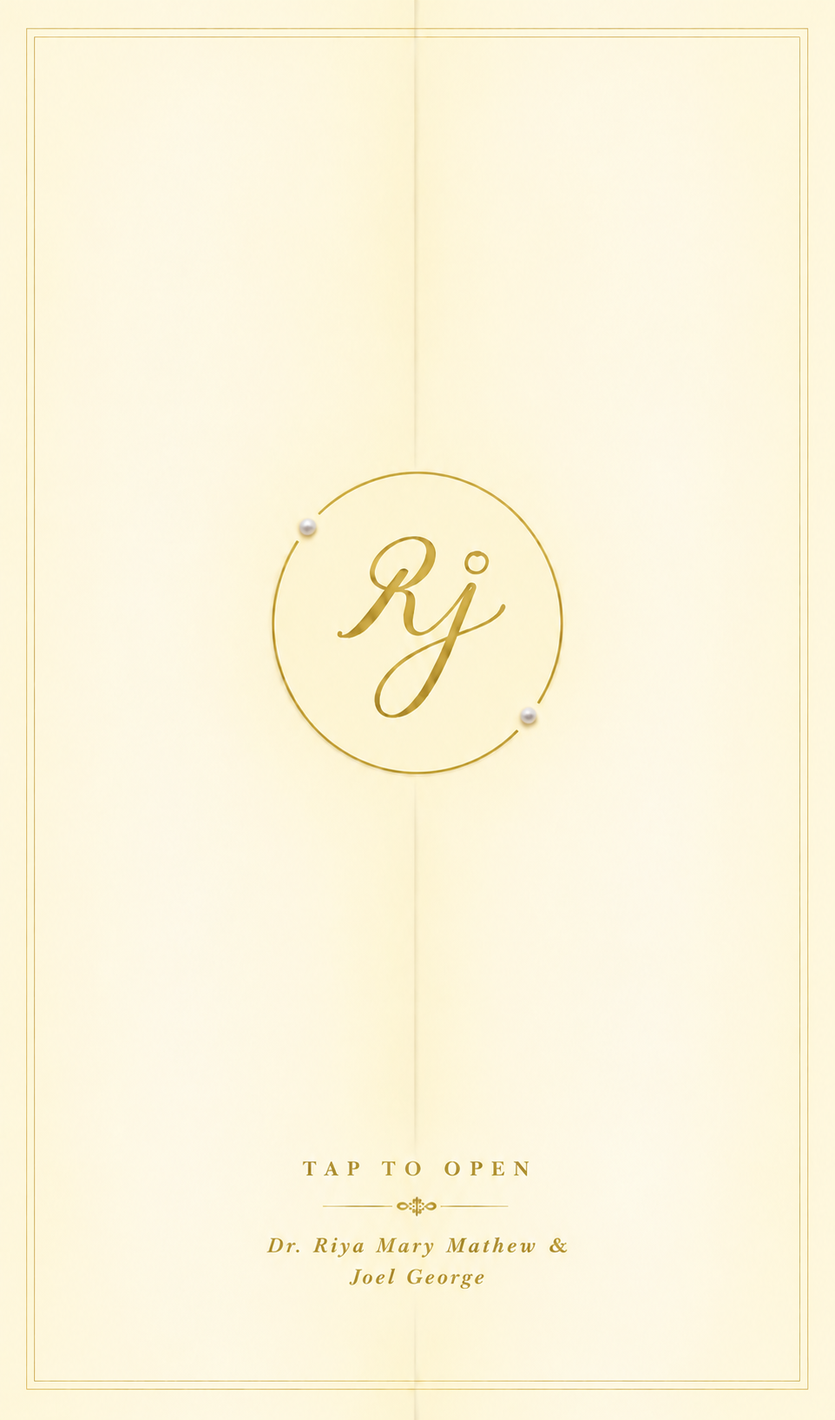
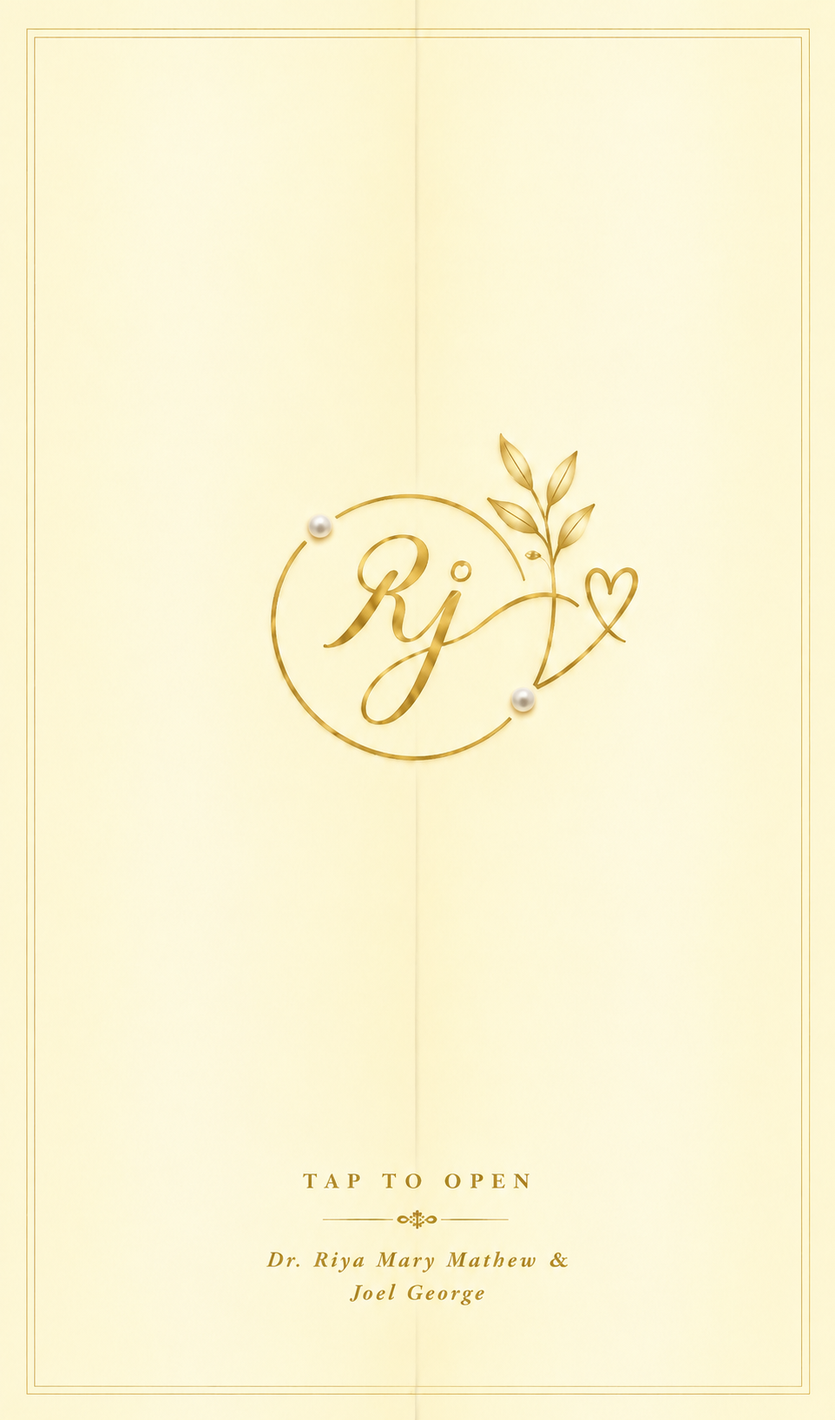
Update opening door animation with new gate.webp artwork, new scripture Ecclesiastes 4:9, and embroidered couple hands

diff --git a/index.html b/index.html
@@ -41,7 +41,7 @@
     href="https://fonts.googleapis.com/css2?family=Cormorant+Garamond:ital,wght@0,400;0,500;0,600;0,700;1,400;1,500&family=Great+Vibes&family=Pinyon+Script&family=Alex+Brush&family=Plus+Jakarta+Sans:wght@400;500;600&display=swap"
     rel="stylesheet" />
   <link rel="preload" as="image" href="assets/couple-embroidery.jpg?v=2" />
-  <link rel="stylesheet" href="styles.css?v=35" />
+  <link rel="stylesheet" href="styles.css?v=36" />
 </head>
 
 <body class="doors-locked">
@@ -70,24 +70,28 @@
             <div class="hero-heart-ornament" aria-hidden="true">
               <svg class="hero-heart-svg" viewBox="0 0 64 20" fill="none" xmlns="http://www.w3.org/2000/svg">
                 <!-- Left flourish with sage leaf -->
-                <path d="M 6 10 C 14 10, 20 8, 25 10" stroke="#b4964c" stroke-width="1.2" stroke-linecap="round"/>
-                <path d="M 12 10 C 16 6, 20 6, 22 9" stroke="#7a9170" stroke-width="1.1" stroke-linecap="round" fill="none"/>
-                <circle cx="21" cy="7.5" r="1.3" fill="#7a9170"/>
+                <path d="M 6 10 C 14 10, 20 8, 25 10" stroke="#b4964c" stroke-width="1.2" stroke-linecap="round" />
+                <path d="M 12 10 C 16 6, 20 6, 22 9" stroke="#7a9170" stroke-width="1.1" stroke-linecap="round"
+                  fill="none" />
+                <circle cx="21" cy="7.5" r="1.3" fill="#7a9170" />
 
                 <!-- Delicate center heart with gold gradient & pearl accent -->
-                <path d="M 32 16.5 C 32 16.5, 25 12, 25 7.5 C 25 4.5, 27.5 2.5, 30.2 3.2 C 31.2 3.5, 31.8 4.2, 32 4.8 C 32.2 4.2, 32.8 3.5, 33.8 3.2 C 36.5 2.5, 39 4.5, 39 7.5 C 39 12, 32 16.5, 32 16.5 Z" fill="url(#heroHeartGold)" stroke="#b4964c" stroke-width="0.8"/>
-                <circle cx="32" cy="7" r="1.2" fill="#fffdf5" stroke="#c8a856" stroke-width="0.5"/>
+                <path
+                  d="M 32 16.5 C 32 16.5, 25 12, 25 7.5 C 25 4.5, 27.5 2.5, 30.2 3.2 C 31.2 3.5, 31.8 4.2, 32 4.8 C 32.2 4.2, 32.8 3.5, 33.8 3.2 C 36.5 2.5, 39 4.5, 39 7.5 C 39 12, 32 16.5, 32 16.5 Z"
+                  fill="url(#heroHeartGold)" stroke="#b4964c" stroke-width="0.8" />
+                <circle cx="32" cy="7" r="1.2" fill="#fffdf5" stroke="#c8a856" stroke-width="0.5" />
 
                 <!-- Right flourish with sage leaf -->
-                <path d="M 58 10 C 50 10, 44 8, 39 10" stroke="#b4964c" stroke-width="1.2" stroke-linecap="round"/>
-                <path d="M 52 10 C 48 6, 44 6, 42 9" stroke="#7a9170" stroke-width="1.1" stroke-linecap="round" fill="none"/>
-                <circle cx="43" cy="7.5" r="1.3" fill="#7a9170"/>
+                <path d="M 58 10 C 50 10, 44 8, 39 10" stroke="#b4964c" stroke-width="1.2" stroke-linecap="round" />
+                <path d="M 52 10 C 48 6, 44 6, 42 9" stroke="#7a9170" stroke-width="1.1" stroke-linecap="round"
+                  fill="none" />
+                <circle cx="43" cy="7.5" r="1.3" fill="#7a9170" />
 
                 <defs>
                   <linearGradient id="heroHeartGold" x1="25" y1="3" x2="39" y2="17" gradientUnits="userSpaceOnUse">
-                    <stop stop-color="#EED58E"/>
-                    <stop offset="0.5" stop-color="#C5A454"/>
-                    <stop offset="1" stop-color="#9E7D35"/>
+                    <stop stop-color="#EED58E" />
+                    <stop offset="0.5" stop-color="#C5A454" />
+                    <stop offset="1" stop-color="#9E7D35" />
                   </linearGradient>
                 </defs>
               </svg>
@@ -126,8 +130,9 @@
       <!-- SECTION 2: SCRIPTURE & BIBLE (Reference 3.jpg) -->
       <section class="card-section scripture-section" id="scripture">
         <div class="scripture-frame-wrap">
-          <img src="assets/scripture-frame.jpg?v=2"
-            alt="Hand-embroidered Holy Bible with pale yellow and sage green floral frame with scripture: Let all that you do be done in love — 1 Corinthians 16:14" class="scripture-frame-img" />
+          <img src="assets/scripture-frame.jpg?v=3"
+            alt="Two are better than one, because they have a good reward for their toil .— Ecclesiastes 4:9"
+            class="scripture-frame-img" />
         </div>
       </section>
 
@@ -138,94 +143,120 @@
           <!-- Butterfly 1: Soft Pale Yellow & Gold Embroidered Butterfly (Top Left) -->
           <div class="cute-butterfly cb-1">
             <svg class="cute-bf-svg" viewBox="0 0 54 44" fill="none" xmlns="http://www.w3.org/2000/svg">
-              <path class="bf-stitch-wing" d="M 27 22 C 23 10, 8 2, 3 8 C -3 15, 2 27, 27 24 Z" fill="#FFFBE6" stroke="#C8A856" stroke-width="1.2" stroke-dasharray="2 1.5" stroke-linecap="round"/>
-              <path class="bf-stitch-wing" d="M 27 24 C 19 25, 7 28, 7 36 C 7 42, 17 42, 27 27 Z" fill="#F8EDBF" stroke="#C8A856" stroke-width="1.1" stroke-dasharray="2 1.5" stroke-linecap="round"/>
-              <circle cx="12" cy="16" r="2.5" fill="#E8CD78" opacity="0.8"/>
-              <path d="M 10 26 C 14 24, 20 24, 24 25" stroke="#C8A856" stroke-width="0.9" stroke-dasharray="1.5 1.5" stroke-linecap="round"/>
+              <path class="bf-stitch-wing" d="M 27 22 C 23 10, 8 2, 3 8 C -3 15, 2 27, 27 24 Z" fill="#FFFBE6"
+                stroke="#C8A856" stroke-width="1.2" stroke-dasharray="2 1.5" stroke-linecap="round" />
+              <path class="bf-stitch-wing" d="M 27 24 C 19 25, 7 28, 7 36 C 7 42, 17 42, 27 27 Z" fill="#F8EDBF"
+                stroke="#C8A856" stroke-width="1.1" stroke-dasharray="2 1.5" stroke-linecap="round" />
+              <circle cx="12" cy="16" r="2.5" fill="#E8CD78" opacity="0.8" />
+              <path d="M 10 26 C 14 24, 20 24, 24 25" stroke="#C8A856" stroke-width="0.9" stroke-dasharray="1.5 1.5"
+                stroke-linecap="round" />
 
-              <path class="bf-stitch-wing" d="M 27 22 C 31 10, 46 2, 51 8 C 57 15, 52 27, 27 24 Z" fill="#FFFBE6" stroke="#C8A856" stroke-width="1.2" stroke-dasharray="2 1.5" stroke-linecap="round"/>
-              <path class="bf-stitch-wing" d="M 27 24 C 35 25, 47 28, 47 36 C 47 42, 37 42, 27 27 Z" fill="#F8EDBF" stroke="#C8A856" stroke-width="1.1" stroke-dasharray="2 1.5" stroke-linecap="round"/>
-              <circle cx="42" cy="16" r="2.5" fill="#E8CD78" opacity="0.8"/>
-              <path d="M 44 26 C 40 24, 34 24, 30 25" stroke="#C8A856" stroke-width="0.9" stroke-dasharray="1.5 1.5" stroke-linecap="round"/>
+              <path class="bf-stitch-wing" d="M 27 22 C 31 10, 46 2, 51 8 C 57 15, 52 27, 27 24 Z" fill="#FFFBE6"
+                stroke="#C8A856" stroke-width="1.2" stroke-dasharray="2 1.5" stroke-linecap="round" />
+              <path class="bf-stitch-wing" d="M 27 24 C 35 25, 47 28, 47 36 C 47 42, 37 42, 27 27 Z" fill="#F8EDBF"
+                stroke="#C8A856" stroke-width="1.1" stroke-dasharray="2 1.5" stroke-linecap="round" />
+              <circle cx="42" cy="16" r="2.5" fill="#E8CD78" opacity="0.8" />
+              <path d="M 44 26 C 40 24, 34 24, 30 25" stroke="#C8A856" stroke-width="0.9" stroke-dasharray="1.5 1.5"
+                stroke-linecap="round" />
 
               <!-- Stitched Antennae -->
-              <path d="M 25 18 C 23 13, 19 11, 17 12 M 29 18 C 31 13, 35 11, 37 12" stroke="#9E844E" stroke-width="1" stroke-linecap="round"/>
-              <circle cx="17" cy="12" r="1.1" fill="#9E844E"/>
-              <circle cx="37" cy="12" r="1.1" fill="#9E844E"/>
+              <path d="M 25 18 C 23 13, 19 11, 17 12 M 29 18 C 31 13, 35 11, 37 12" stroke="#9E844E" stroke-width="1"
+                stroke-linecap="round" />
+              <circle cx="17" cy="12" r="1.1" fill="#9E844E" />
+              <circle cx="37" cy="12" r="1.1" fill="#9E844E" />
 
               <!-- Petite Embroidered Body -->
-              <ellipse cx="27" cy="23" rx="2.2" ry="6.5" fill="#9E844E"/>
-              <circle cx="27" cy="17.5" r="1.8" fill="#9E844E"/>
+              <ellipse cx="27" cy="23" rx="2.2" ry="6.5" fill="#9E844E" />
+              <circle cx="27" cy="17.5" r="1.8" fill="#9E844E" />
             </svg>
           </div>
 
           <!-- Butterfly 2: Soft Sage & Cream Embroidered Butterfly (Top Right) -->
           <div class="cute-butterfly cb-2">
             <svg class="cute-bf-svg" viewBox="0 0 54 44" fill="none" xmlns="http://www.w3.org/2000/svg">
-              <path class="bf-stitch-wing" d="M 27 22 C 23 10, 8 2, 3 8 C -3 15, 2 27, 27 24 Z" fill="#F2F7ED" stroke="#7E9A74" stroke-width="1.2" stroke-dasharray="2 1.5" stroke-linecap="round"/>
-              <path class="bf-stitch-wing" d="M 27 24 C 19 25, 7 28, 7 36 C 7 42, 17 42, 27 27 Z" fill="#DAE6D1" stroke="#7E9A74" stroke-width="1.1" stroke-dasharray="2 1.5" stroke-linecap="round"/>
-              <circle cx="12" cy="16" r="2.5" fill="#BFD2B7" opacity="0.8"/>
-              <path d="M 10 26 C 14 24, 20 24, 24 25" stroke="#7E9A74" stroke-width="0.9" stroke-dasharray="1.5 1.5" stroke-linecap="round"/>
+              <path class="bf-stitch-wing" d="M 27 22 C 23 10, 8 2, 3 8 C -3 15, 2 27, 27 24 Z" fill="#F2F7ED"
+                stroke="#7E9A74" stroke-width="1.2" stroke-dasharray="2 1.5" stroke-linecap="round" />
+              <path class="bf-stitch-wing" d="M 27 24 C 19 25, 7 28, 7 36 C 7 42, 17 42, 27 27 Z" fill="#DAE6D1"
+                stroke="#7E9A74" stroke-width="1.1" stroke-dasharray="2 1.5" stroke-linecap="round" />
+              <circle cx="12" cy="16" r="2.5" fill="#BFD2B7" opacity="0.8" />
+              <path d="M 10 26 C 14 24, 20 24, 24 25" stroke="#7E9A74" stroke-width="0.9" stroke-dasharray="1.5 1.5"
+                stroke-linecap="round" />
 
-              <path class="bf-stitch-wing" d="M 27 22 C 31 10, 46 2, 51 8 C 57 15, 52 27, 27 24 Z" fill="#F2F7ED" stroke="#7E9A74" stroke-width="1.2" stroke-dasharray="2 1.5" stroke-linecap="round"/>
-              <path class="bf-stitch-wing" d="M 27 24 C 35 25, 47 28, 47 36 C 47 42, 37 42, 27 27 Z" fill="#DAE6D1" stroke="#7E9A74" stroke-width="1.1" stroke-dasharray="2 1.5" stroke-linecap="round"/>
-              <circle cx="42" cy="16" r="2.5" fill="#BFD2B7" opacity="0.8"/>
-              <path d="M 44 26 C 40 24, 34 24, 30 25" stroke="#7E9A74" stroke-width="0.9" stroke-dasharray="1.5 1.5" stroke-linecap="round"/>
+              <path class="bf-stitch-wing" d="M 27 22 C 31 10, 46 2, 51 8 C 57 15, 52 27, 27 24 Z" fill="#F2F7ED"
+                stroke="#7E9A74" stroke-width="1.2" stroke-dasharray="2 1.5" stroke-linecap="round" />
+              <path class="bf-stitch-wing" d="M 27 24 C 35 25, 47 28, 47 36 C 47 42, 37 42, 27 27 Z" fill="#DAE6D1"
+                stroke="#7E9A74" stroke-width="1.1" stroke-dasharray="2 1.5" stroke-linecap="round" />
+              <circle cx="42" cy="16" r="2.5" fill="#BFD2B7" opacity="0.8" />
+              <path d="M 44 26 C 40 24, 34 24, 30 25" stroke="#7E9A74" stroke-width="0.9" stroke-dasharray="1.5 1.5"
+                stroke-linecap="round" />
 
               <!-- Stitched Antennae -->
-              <path d="M 25 18 C 23 13, 19 11, 17 12 M 29 18 C 31 13, 35 11, 37 12" stroke="#68845E" stroke-width="1" stroke-linecap="round"/>
-              <circle cx="17" cy="12" r="1.1" fill="#68845E"/>
-              <circle cx="37" cy="12" r="1.1" fill="#68845E"/>
+              <path d="M 25 18 C 23 13, 19 11, 17 12 M 29 18 C 31 13, 35 11, 37 12" stroke="#68845E" stroke-width="1"
+                stroke-linecap="round" />
+              <circle cx="17" cy="12" r="1.1" fill="#68845E" />
+              <circle cx="37" cy="12" r="1.1" fill="#68845E" />
 
               <!-- Petite Embroidered Body -->
-              <ellipse cx="27" cy="23" rx="2.2" ry="6.5" fill="#68845E"/>
-              <circle cx="27" cy="17.5" r="1.8" fill="#68845E"/>
+              <ellipse cx="27" cy="23" rx="2.2" ry="6.5" fill="#68845E" />
+              <circle cx="27" cy="17.5" r="1.8" fill="#68845E" />
             </svg>
           </div>
 
           <!-- Butterfly 3: Warm Ivory & Buttercream Stitched Butterfly (Bottom Left) -->
           <div class="cute-butterfly cb-3">
             <svg class="cute-bf-svg" viewBox="0 0 54 44" fill="none" xmlns="http://www.w3.org/2000/svg">
-              <path class="bf-stitch-wing" d="M 27 22 C 23 10, 8 2, 3 8 C -3 15, 2 27, 27 24 Z" fill="#FFFDF5" stroke="#C2A45A" stroke-width="1.2" stroke-dasharray="2 1.5" stroke-linecap="round"/>
-              <path class="bf-stitch-wing" d="M 27 24 C 19 25, 7 28, 7 36 C 7 42, 17 42, 27 27 Z" fill="#F8EFCF" stroke="#C2A45A" stroke-width="1.1" stroke-dasharray="2 1.5" stroke-linecap="round"/>
-              <circle cx="12" cy="16" r="2.5" fill="#E8D490" opacity="0.8"/>
-              <path d="M 10 26 C 14 24, 20 24, 24 25" stroke="#C2A45A" stroke-width="0.9" stroke-dasharray="1.5 1.5" stroke-linecap="round"/>
+              <path class="bf-stitch-wing" d="M 27 22 C 23 10, 8 2, 3 8 C -3 15, 2 27, 27 24 Z" fill="#FFFDF5"
+                stroke="#C2A45A" stroke-width="1.2" stroke-dasharray="2 1.5" stroke-linecap="round" />
+              <path class="bf-stitch-wing" d="M 27 24 C 19 25, 7 28, 7 36 C 7 42, 17 42, 27 27 Z" fill="#F8EFCF"
+                stroke="#C2A45A" stroke-width="1.1" stroke-dasharray="2 1.5" stroke-linecap="round" />
+              <circle cx="12" cy="16" r="2.5" fill="#E8D490" opacity="0.8" />
+              <path d="M 10 26 C 14 24, 20 24, 24 25" stroke="#C2A45A" stroke-width="0.9" stroke-dasharray="1.5 1.5"
+                stroke-linecap="round" />
 
-              <path class="bf-stitch-wing" d="M 27 22 C 31 10, 46 2, 51 8 C 57 15, 52 27, 27 24 Z" fill="#FFFDF5" stroke="#C2A45A" stroke-width="1.2" stroke-dasharray="2 1.5" stroke-linecap="round"/>
-              <path class="bf-stitch-wing" d="M 27 24 C 35 25, 47 28, 47 36 C 47 42, 37 42, 27 27 Z" fill="#F8EFCF" stroke="#C2A45A" stroke-width="1.1" stroke-dasharray="2 1.5" stroke-linecap="round"/>
-              <circle cx="42" cy="16" r="2.5" fill="#E8D490" opacity="0.8"/>
-              <path d="M 44 26 C 40 24, 34 24, 30 25" stroke="#C2A45A" stroke-width="0.9" stroke-dasharray="1.5 1.5" stroke-linecap="round"/>
+              <path class="bf-stitch-wing" d="M 27 22 C 31 10, 46 2, 51 8 C 57 15, 52 27, 27 24 Z" fill="#FFFDF5"
+                stroke="#C2A45A" stroke-width="1.2" stroke-dasharray="2 1.5" stroke-linecap="round" />
+              <path class="bf-stitch-wing" d="M 27 24 C 35 25, 47 28, 47 36 C 47 42, 37 42, 27 27 Z" fill="#F8EFCF"
+                stroke="#C2A45A" stroke-width="1.1" stroke-dasharray="2 1.5" stroke-linecap="round" />
+              <circle cx="42" cy="16" r="2.5" fill="#E8D490" opacity="0.8" />
+              <path d="M 44 26 C 40 24, 34 24, 30 25" stroke="#C2A45A" stroke-width="0.9" stroke-dasharray="1.5 1.5"
+                stroke-linecap="round" />
 
               <!-- Stitched Antennae -->
-              <path d="M 25 18 C 23 13, 19 11, 17 12 M 29 18 C 31 13, 35 11, 37 12" stroke="#9A824A" stroke-width="1" stroke-linecap="round"/>
-              <circle cx="17" cy="12" r="1.1" fill="#9A824A"/>
-              <circle cx="37" cy="12" r="1.1" fill="#9A824A"/>
+              <path d="M 25 18 C 23 13, 19 11, 17 12 M 29 18 C 31 13, 35 11, 37 12" stroke="#9A824A" stroke-width="1"
+                stroke-linecap="round" />
+              <circle cx="17" cy="12" r="1.1" fill="#9A824A" />
+              <circle cx="37" cy="12" r="1.1" fill="#9A824A" />
 
               <!-- Petite Embroidered Body -->
-              <ellipse cx="27" cy="23" rx="2.2" ry="6.5" fill="#9A824A"/>
-              <circle cx="27" cy="17.5" r="1.8" fill="#9A824A"/>
+              <ellipse cx="27" cy="23" rx="2.2" ry="6.5" fill="#9A824A" />
+              <circle cx="27" cy="17.5" r="1.8" fill="#9A824A" />
             </svg>
           </div>
 
           <!-- Butterfly 4: Petite Pale Yellow Fluttering Butterfly (Bottom Right) -->
           <div class="cute-butterfly cb-4">
             <svg class="cute-bf-svg" viewBox="0 0 54 44" fill="none" xmlns="http://www.w3.org/2000/svg">
-              <path class="bf-stitch-wing" d="M 27 22 C 23 10, 8 2, 3 8 C -3 15, 2 27, 27 24 Z" fill="#FFF8DC" stroke="#C8A856" stroke-width="1.2" stroke-dasharray="2 1.5" stroke-linecap="round"/>
-              <path class="bf-stitch-wing" d="M 27 24 C 19 25, 7 28, 7 36 C 7 42, 17 42, 27 27 Z" fill="#F4E4A6" stroke="#C8A856" stroke-width="1.1" stroke-dasharray="2 1.5" stroke-linecap="round"/>
-              <circle cx="12" cy="16" r="2.5" fill="#E4CA72" opacity="0.8"/>
+              <path class="bf-stitch-wing" d="M 27 22 C 23 10, 8 2, 3 8 C -3 15, 2 27, 27 24 Z" fill="#FFF8DC"
+                stroke="#C8A856" stroke-width="1.2" stroke-dasharray="2 1.5" stroke-linecap="round" />
+              <path class="bf-stitch-wing" d="M 27 24 C 19 25, 7 28, 7 36 C 7 42, 17 42, 27 27 Z" fill="#F4E4A6"
+                stroke="#C8A856" stroke-width="1.1" stroke-dasharray="2 1.5" stroke-linecap="round" />
+              <circle cx="12" cy="16" r="2.5" fill="#E4CA72" opacity="0.8" />
 
-              <path class="bf-stitch-wing" d="M 27 22 C 31 10, 46 2, 51 8 C 57 15, 52 27, 27 24 Z" fill="#FFF8DC" stroke="#C8A856" stroke-width="1.2" stroke-dasharray="2 1.5" stroke-linecap="round"/>
-              <path class="bf-stitch-wing" d="M 27 24 C 35 25, 47 28, 47 36 C 47 42, 37 42, 27 27 Z" fill="#F4E4A6" stroke="#C8A856" stroke-width="1.1" stroke-dasharray="2 1.5" stroke-linecap="round"/>
-              <circle cx="42" cy="16" r="2.5" fill="#E4CA72" opacity="0.8"/>
+              <path class="bf-stitch-wing" d="M 27 22 C 31 10, 46 2, 51 8 C 57 15, 52 27, 27 24 Z" fill="#FFF8DC"
+                stroke="#C8A856" stroke-width="1.2" stroke-dasharray="2 1.5" stroke-linecap="round" />
+              <path class="bf-stitch-wing" d="M 27 24 C 35 25, 47 28, 47 36 C 47 42, 37 42, 27 27 Z" fill="#F4E4A6"
+                stroke="#C8A856" stroke-width="1.1" stroke-dasharray="2 1.5" stroke-linecap="round" />
+              <circle cx="42" cy="16" r="2.5" fill="#E4CA72" opacity="0.8" />
 
               <!-- Stitched Antennae -->
-              <path d="M 25 18 C 23 13, 19 11, 17 12 M 29 18 C 31 13, 35 11, 37 12" stroke="#9E844E" stroke-width="1" stroke-linecap="round"/>
-              <circle cx="17" cy="12" r="1.1" fill="#9E844E"/>
-              <circle cx="37" cy="12" r="1.1" fill="#9E844E"/>
+              <path d="M 25 18 C 23 13, 19 11, 17 12 M 29 18 C 31 13, 35 11, 37 12" stroke="#9E844E" stroke-width="1"
+                stroke-linecap="round" />
+              <circle cx="17" cy="12" r="1.1" fill="#9E844E" />
+              <circle cx="37" cy="12" r="1.1" fill="#9E844E" />
 
               <!-- Petite Embroidered Body -->
-              <ellipse cx="27" cy="23" rx="2.2" ry="6.5" fill="#9E844E"/>
-              <circle cx="27" cy="17.5" r="1.8" fill="#9E844E"/>
+              <ellipse cx="27" cy="23" rx="2.2" ry="6.5" fill="#9E844E" />
+              <circle cx="27" cy="17.5" r="1.8" fill="#9E844E" />
             </svg>
           </div>
         </div>
@@ -316,8 +347,8 @@
               <h3 class="venue-name">K G Convention Centre</h3>
               <p class="venue-place">Punalur</p>
               <p class="venue-subdate">Sunday, January 3, 2027 · 12:30 PM</p>
-              <a href="https://www.google.com/maps/search/?api=1&query=KG+Convention+Centre+Punalur"
-                target="_blank" rel="noopener noreferrer" class="directions-link">
+              <a href="https://www.google.com/maps/search/?api=1&query=KG+Convention+Centre+Punalur" target="_blank"
+                rel="noopener noreferrer" class="directions-link">
                 <svg width="14" height="14" viewBox="0 0 24 24" fill="none" stroke="currentColor" stroke-width="1.8"
                   aria-hidden="true">
                   <path d="M12 21s-7-6.2-7-11.5a7 7 0 1 1 14 0C19 14.8 12 21 12 21z" />
@@ -352,76 +383,94 @@
             </defs>
 
             <!-- Gracefully Draped Festoon Fairy Wire (Romantic Curved Swag) -->
-            <path d="M 15 25 C 130 58, 200 68, 260 68 C 320 68, 390 58, 505 25" stroke="#44392C" stroke-width="1.35" stroke-linecap="round" />
+            <path d="M 15 25 C 130 58, 200 68, 260 68 C 320 68, 390 58, 505 25" stroke="#44392C" stroke-width="1.35"
+              stroke-linecap="round" />
 
             <!-- Decorative Tiny End Loops -->
             <circle cx="15" cy="25" r="2" fill="#D9BF71" stroke="#44392C" stroke-width="0.8" />
             <circle cx="505" cy="25" r="2" fill="#D9BF71" stroke="#44392C" stroke-width="0.8" />
 
             <!-- Twinkling Golden Fairy Sparkles -->
-            <path d="M 260 13 L 261.2 16.5 L 265 17.5 L 261.2 18.5 L 260 22 L 258.8 18.5 L 255 17.5 L 258.8 16.5 Z" fill="#E8C86A" opacity="0.9" />
-            <path d="M 105 28 L 105.8 30.5 L 108.5 31.2 L 105.8 32 L 105 34.5 L 104.2 32 L 101.5 31.2 L 104.2 30.5 Z" fill="#E8C86A" opacity="0.75" />
-            <path d="M 415 28 L 415.8 30.5 L 418.5 31.2 L 415.8 32 L 415 34.5 L 414.2 32 L 411.5 31.2 L 414.2 30.5 Z" fill="#E8C86A" opacity="0.75" />
+            <path d="M 260 13 L 261.2 16.5 L 265 17.5 L 261.2 18.5 L 260 22 L 258.8 18.5 L 255 17.5 L 258.8 16.5 Z"
+              fill="#E8C86A" opacity="0.9" />
+            <path d="M 105 28 L 105.8 30.5 L 108.5 31.2 L 105.8 32 L 105 34.5 L 104.2 32 L 101.5 31.2 L 104.2 30.5 Z"
+              fill="#E8C86A" opacity="0.75" />
+            <path d="M 415 28 L 415.8 30.5 L 418.5 31.2 L 415.8 32 L 415 34.5 L 414.2 32 L 411.5 31.2 L 414.2 30.5 Z"
+              fill="#E8C86A" opacity="0.75" />
 
             <!-- Bulb 1 (Left High) -->
             <g class="fairy-bulb fb-node-1">
               <rect x="67" y="42.5" width="6" height="3" rx="0.8" fill="#D9BF71" stroke="#44392C" stroke-width="0.8" />
-              <circle cx="70" cy="53.5" r="7.5" fill="url(#bulbWarmGlow)" stroke="#7D652B" stroke-width="0.9" filter="url(#bulbSoftGlow)" />
+              <circle cx="70" cy="53.5" r="7.5" fill="url(#bulbWarmGlow)" stroke="#7D652B" stroke-width="0.9"
+                filter="url(#bulbSoftGlow)" />
               <circle cx="67.8" cy="51.3" r="1.8" fill="#FFFFFF" opacity="0.75" />
             </g>
 
             <!-- Bulb 2 (Left Mid) -->
             <g class="fairy-bulb fb-node-2">
               <rect x="142" y="57" width="6" height="3" rx="0.8" fill="#D9BF71" stroke="#44392C" stroke-width="0.8" />
-              <circle cx="145" cy="68" r="7.5" fill="url(#bulbWarmGlow)" stroke="#7D652B" stroke-width="0.9" filter="url(#bulbSoftGlow)" />
+              <circle cx="145" cy="68" r="7.5" fill="url(#bulbWarmGlow)" stroke="#7D652B" stroke-width="0.9"
+                filter="url(#bulbSoftGlow)" />
               <circle cx="142.8" cy="65.8" r="1.8" fill="#FFFFFF" opacity="0.75" />
             </g>
 
             <!-- Bulb 3 (Left Near Birds) -->
             <g class="fairy-bulb fb-node-3">
               <rect x="207" y="65" width="6" height="3" rx="0.8" fill="#D9BF71" stroke="#44392C" stroke-width="0.8" />
-              <circle cx="210" cy="76" r="7.5" fill="url(#bulbWarmGlow)" stroke="#7D652B" stroke-width="0.9" filter="url(#bulbSoftGlow)" />
+              <circle cx="210" cy="76" r="7.5" fill="url(#bulbWarmGlow)" stroke="#7D652B" stroke-width="0.9"
+                filter="url(#bulbSoftGlow)" />
               <circle cx="207.8" cy="73.8" r="1.8" fill="#FFFFFF" opacity="0.75" />
             </g>
 
             <!-- Two Cute Lovebirds Snuggled in the Center Dip of the Drape -->
             <g class="lovebirds-couple">
               <!-- Left Bird -->
-              <path d="M 256 40 C 250 39, 244 43, 243 51 C 242 58, 243 64, 244 71 L 247 71 L 249 65 C 252 65, 257 61, 257 53 C 257 45, 257 40, 256 40 Z" fill="#FFFDF7" stroke="#3E3426" stroke-width="1.25" stroke-linejoin="round" />
+              <path
+                d="M 256 40 C 250 39, 244 43, 243 51 C 242 58, 243 64, 244 71 L 247 71 L 249 65 C 252 65, 257 61, 257 53 C 257 45, 257 40, 256 40 Z"
+                fill="#FFFDF7" stroke="#3E3426" stroke-width="1.25" stroke-linejoin="round" />
               <circle cx="253" cy="45" r="1.3" fill="#2B241A" />
-              <path d="M 257 47 L 260 48 L 257 49.5 Z" fill="#D89B48" stroke="#3E3426" stroke-width="0.8" stroke-linejoin="round" />
+              <path d="M 257 47 L 260 48 L 257 49.5 Z" fill="#D89B48" stroke="#3E3426" stroke-width="0.8"
+                stroke-linejoin="round" />
               <path d="M 247 51 C 246 54, 246 58, 248 61" stroke="#5C4F3D" stroke-width="1" stroke-linecap="round" />
               <path d="M 250 52 C 249 55, 250 59, 252 61" stroke="#5C4F3D" stroke-width="1" stroke-linecap="round" />
-              <path d="M 246 67 L 246 70 M 250 67 L 250 70" stroke="#3E3426" stroke-width="1.1" stroke-linecap="round" />
+              <path d="M 246 67 L 246 70 M 250 67 L 250 70" stroke="#3E3426" stroke-width="1.1"
+                stroke-linecap="round" />
 
               <!-- Right Bird (Snuggled & Leaning into Left Bird) -->
-              <path d="M 259 44 C 260 37, 267 36, 270 41 C 273 46, 273 54, 271 62 C 270 67, 268 72, 267 74 L 264 74 L 263 64 C 261 64, 259 59, 259 51 Z" fill="#FFFDF7" stroke="#3E3426" stroke-width="1.25" stroke-linejoin="round" />
+              <path
+                d="M 259 44 C 260 37, 267 36, 270 41 C 273 46, 273 54, 271 62 C 270 67, 268 72, 267 74 L 264 74 L 263 64 C 261 64, 259 59, 259 51 Z"
+                fill="#FFFDF7" stroke="#3E3426" stroke-width="1.25" stroke-linejoin="round" />
               <circle cx="263" cy="43" r="1.2" fill="#2B241A" />
               <circle cx="267" cy="43" r="1.2" fill="#2B241A" />
-              <path d="M 264.5 45.5 L 266 45.5 L 265.2 47 Z" fill="#D89B48" stroke="#3E3426" stroke-width="0.8" stroke-linejoin="round" />
+              <path d="M 264.5 45.5 L 266 45.5 L 265.2 47 Z" fill="#D89B48" stroke="#3E3426" stroke-width="0.8"
+                stroke-linejoin="round" />
               <circle cx="264" cy="53" r="1" fill="#7A6B54" />
               <circle cx="267" cy="55" r="1" fill="#7A6B54" />
-              <path d="M 262 67 L 262 70 M 266 67 L 266 70" stroke="#3E3426" stroke-width="1.1" stroke-linecap="round" />
+              <path d="M 262 67 L 262 70 M 266 67 L 266 70" stroke="#3E3426" stroke-width="1.1"
+                stroke-linecap="round" />
             </g>
 
             <!-- Bulb 4 (Right Near Birds) -->
             <g class="fairy-bulb fb-node-4">
               <rect x="307" y="65" width="6" height="3" rx="0.8" fill="#D9BF71" stroke="#44392C" stroke-width="0.8" />
-              <circle cx="310" cy="76" r="7.5" fill="url(#bulbWarmGlow)" stroke="#7D652B" stroke-width="0.9" filter="url(#bulbSoftGlow)" />
+              <circle cx="310" cy="76" r="7.5" fill="url(#bulbWarmGlow)" stroke="#7D652B" stroke-width="0.9"
+                filter="url(#bulbSoftGlow)" />
               <circle cx="307.8" cy="73.8" r="1.8" fill="#FFFFFF" opacity="0.75" />
             </g>
 
             <!-- Bulb 5 (Right Mid) -->
             <g class="fairy-bulb fb-node-5">
               <rect x="372" y="57" width="6" height="3" rx="0.8" fill="#D9BF71" stroke="#44392C" stroke-width="0.8" />
-              <circle cx="375" cy="68" r="7.5" fill="url(#bulbWarmGlow)" stroke="#7D652B" stroke-width="0.9" filter="url(#bulbSoftGlow)" />
+              <circle cx="375" cy="68" r="7.5" fill="url(#bulbWarmGlow)" stroke="#7D652B" stroke-width="0.9"
+                filter="url(#bulbSoftGlow)" />
               <circle cx="372.8" cy="65.8" r="1.8" fill="#FFFFFF" opacity="0.75" />
             </g>
 
             <!-- Bulb 6 (Right High) -->
             <g class="fairy-bulb fb-node-6">
               <rect x="447" y="42.5" width="6" height="3" rx="0.8" fill="#D9BF71" stroke="#44392C" stroke-width="0.8" />
-              <circle cx="450" cy="53.5" r="7.5" fill="url(#bulbWarmGlow)" stroke="#7D652B" stroke-width="0.9" filter="url(#bulbSoftGlow)" />
+              <circle cx="450" cy="53.5" r="7.5" fill="url(#bulbWarmGlow)" stroke="#7D652B" stroke-width="0.9"
+                filter="url(#bulbSoftGlow)" />
               <circle cx="447.8" cy="51.3" r="1.8" fill="#FFFFFF" opacity="0.75" />
             </g>
           </svg>
@@ -576,8 +625,8 @@
       <section class="card-section compliments-section reveal" id="compliments">
         <div class="couple-photo-wrap">
           <div class="couple-photo-frame">
-            <img src="assets/couple-hands.jpg?v=1"
-              alt="Dr. Riya Mary Mathew and Joel George holding hands" class="couple-photo-img" />
+            <img src="assets/couple-hands.jpg?v=2" alt="Dr. Riya Mary Mathew and Joel George holding hands"
+              class="couple-photo-img" />
           </div>
         </div>
 

diff --git a/styles.css b/styles.css
@@ -158,14 +158,14 @@ body.doors-locked #card-stage {
 .door-left {
   left: 0;
   transform-origin: left center;
-  background-image: url('assets/door-left.jpg?v=5');
+  background-image: url('assets/door-left.jpg?v=6');
   background-position: right center;
 }
 
 .door-right {
   right: 0;
   transform-origin: right center;
-  background-image: url('assets/door-right.jpg?v=5');
+  background-image: url('assets/door-right.jpg?v=6');
   background-position: left center;
 }
 
